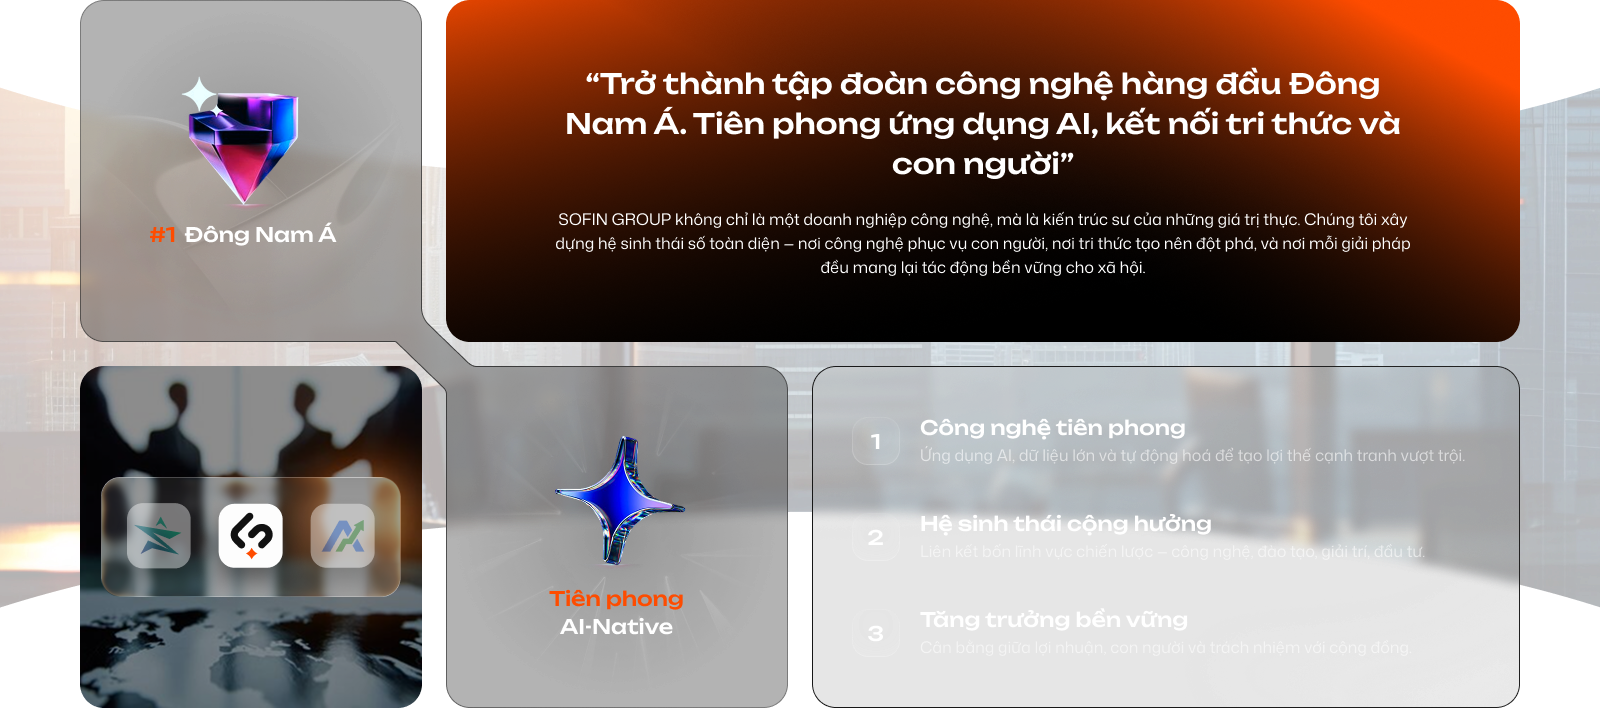
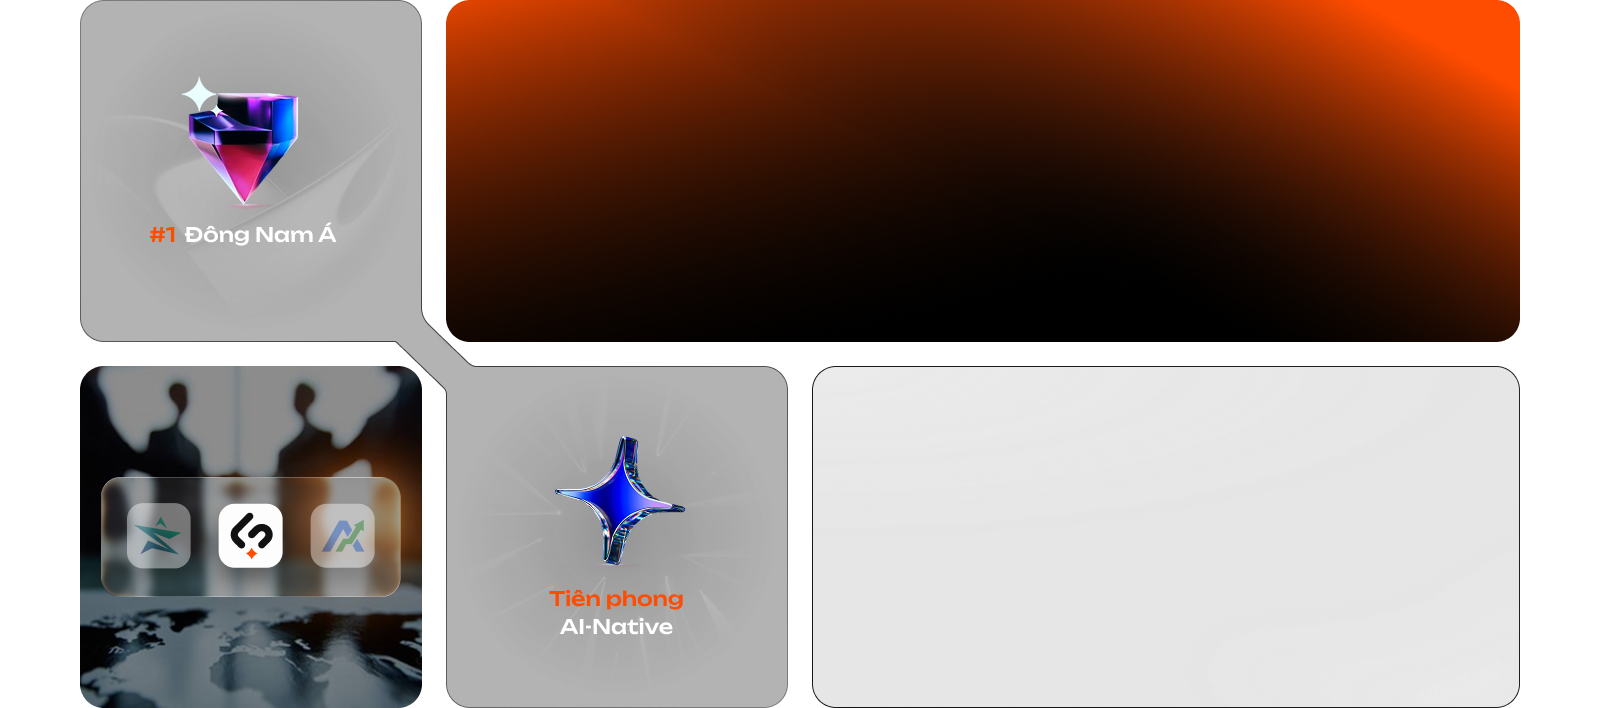
update parallax

diff --git a/src/features/home/components/VisionSection.tsx b/src/features/home/components/VisionSection.tsx
@@ -1,12 +1,28 @@
+import { useRef } from 'react'
+import { motion, useScroll, useTransform } from 'framer-motion'
 import bgVisionSection from '@/assets/images/bg_vision_section.png'
+import bgParallax from '@/assets/images/bg_parallax.png'
 
 export default function VisionSection() {
+  const ref = useRef<HTMLElement>(null)
+  const { scrollYProgress } = useScroll({ target: ref, offset: ['start end', 'end start'] })
+  const bgY = useTransform(scrollYProgress, [0, 1], ['-10%', '50%'])
+
   return (
-    <section>
+    <section ref={ref} className="relative overflow-hidden mt-4">
+      {/* Background layer — moves with parallax */}
+      <motion.img
+        src={bgParallax}
+        alt=""
+        aria-hidden
+        style={{ y: bgY }}
+        className="absolute inset-0 w-full h-full object-cover scale- pointer-events-none select-none"
+      />
+      {/* Content layer — static */}
       <img
         src={bgVisionSection}
         alt=""
-        className="w-full object-cover block mt-4"
+        className="relative w-full object-cover block"
       />
     </section>
   )